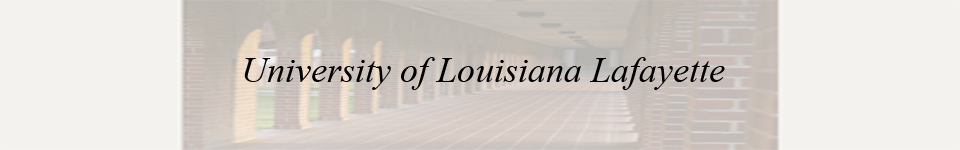
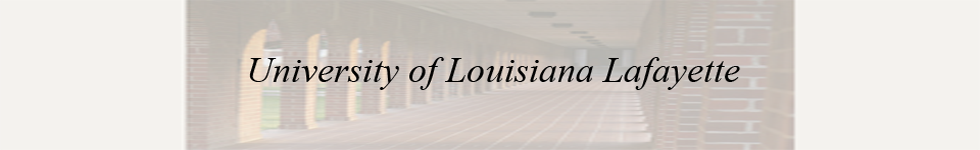
work

diff --git a/index2.html b/index2.html
@@ -41,26 +41,26 @@
         <div class="row redline">
         </div>
         <div class="row">
-            <img id="size" src="images/headbg.png">
+            <img id="size" src="images/headbg.png" >
             <div class="row">
                 <div class="span6">
                  <a href="http://wwww.louisiana.edu"><img id="logo" src="images/logo.png" height= 87px width= 99px></a>
                 </div>
                 <div class="span6" >
       
-                    <p id="mapplace"><a id="redcolor" href="">Map</a> | <a id="redcolor"  href="">A-Z Index</a>| <a id="redcolor"  href="">Contact</a></p>
+                    <p id="mapplace"><a id="redcolor" href="">Map</a> | <a id="redcolor"  href="">A-Z Index</a> | <a id="redcolor"  href="">Contact</a></p>
                   
                    
                     <form method="post" action="traitement.php">
                       <p id="searchplace">
-                       <input type="text" name="searchbar" id="search" placeholder="Search web or people..." />
-                       <button type="submit" value="submit" class="search_button"><img  src="images/search.png" width=30 height=30></button>
+                       <input style="float: left" type="text" name="searchbar" id="search" placeholder="Search web or people..." />
+                       <button type="submit" value="submit" class="search_button"><img  src="images/search.png" width=20 height=20></button>
                       </p>
                     </form>
                     
                 </div>
             </div>
-            
+        
             <div class="row nav">
               <ul class="nav pills" id="main-nav">
                 <li class="dropdown" id="menu1"><a class="dropdown-toggle" data-toggle="dropdown" href="index2.html"><i><b>Home</b></i></a></li>

diff --git a/stylesheets/main.css b/stylesheets/main.css
@@ -231,9 +231,9 @@
 }
 
 #main-nav a:hover{
-    background-color: #ffffff;
+    background-color: #C1C1C1;
     text-decoration: none;
-    color: #000000;
+    color: #ffffff;
 }
 
 #mapplace{
@@ -366,7 +366,7 @@
 
 
 #size{
-    width:960px;
+   width: 980px;
     height:150px;
 }
 
